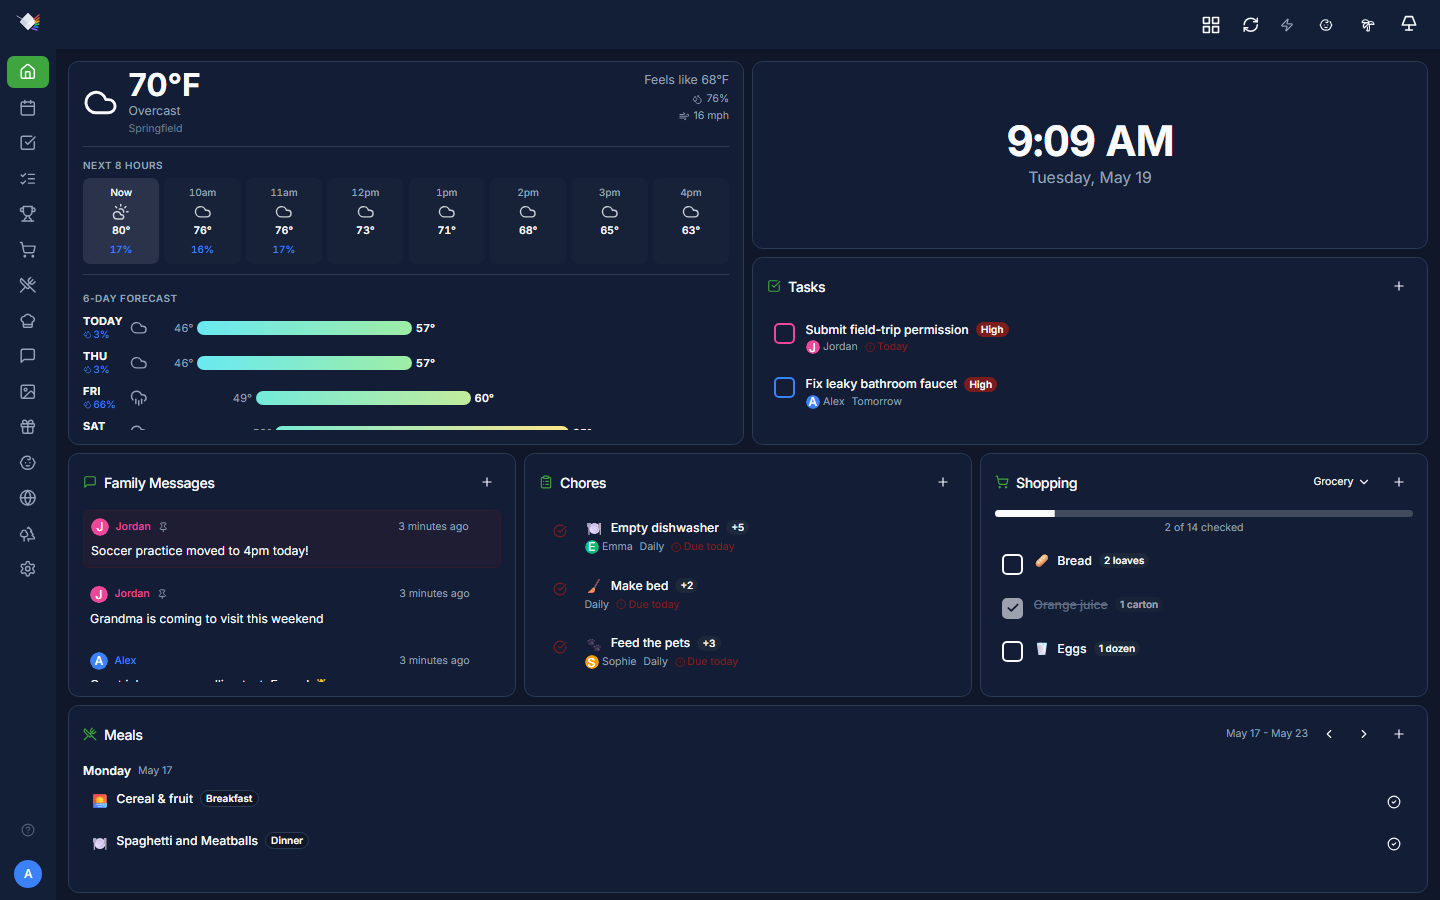
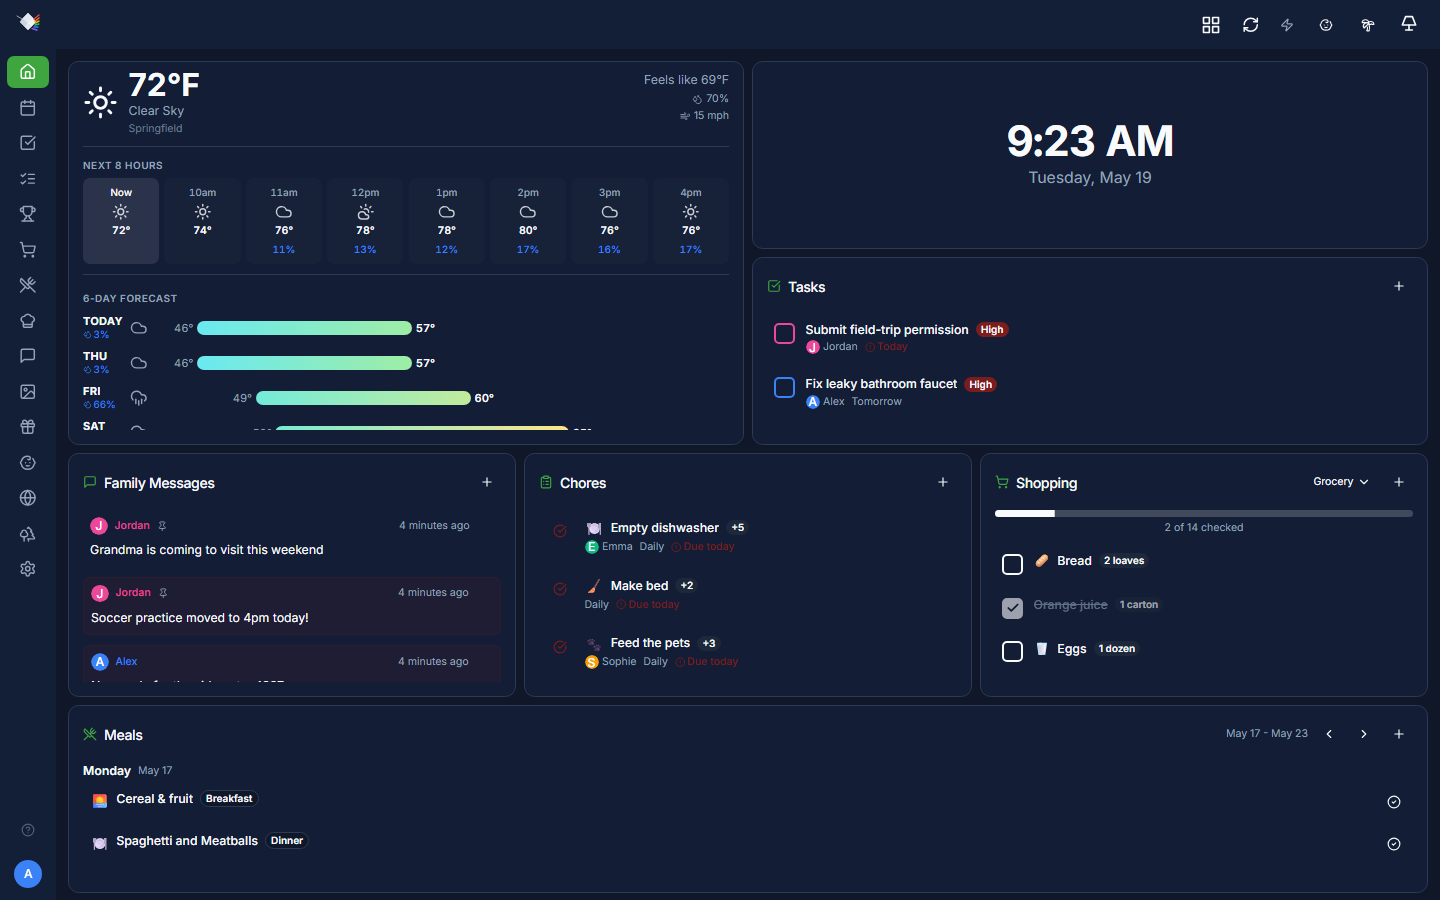
fix(weather): parse Open-Meteo sunrise/sunset/hourly as wall-clock-in-location
Open-Meteo returns "2026-05-19T05:42" (no offset) when called with
`timezone=auto`, expecting the consumer to interpret that wall-clock in
the response's IANA timezone. The previous parser ran `new Date(s)`,
which treats the string as the *runtime's* local time — UTC in our
Docker containers — then serializes through JSON as ISO Z. The browser
re-interprets that as UTC and shifts by its own offset, so sunrise
landed around midnight CDT instead of ~5:30 AM.

Fix: combine the wall-clock string with the response's `timezone` field
via Intl.DateTimeFormat → longOffset to compute the correct UTC instant.
Applied to sunrise, sunset, and `hourly.time`. DST transitions handled
implicitly since the offset is recomputed against each date.

- Add `zonedTimeToUtc(localIso, timeZone)` helper in openmeteo.ts.
- Two new regression tests: sunrise/sunset round-trip and hourly-time
  round-trip — both assert the result expressed in America/Chicago
  matches the original wall-clock string.
- Re-capture dashboard PNGs with correct sunrise/sunset data.
- Also: stage the merry-timeline.d.ts deletion that should have landed
  in the previous weather commit.

diff --git a/src/lib/integrations/__tests__/openmeteo.test.ts b/src/lib/integrations/__tests__/openmeteo.test.ts
@@ -237,6 +237,80 @@ describe('openmeteo.fetchWeatherData', () => {
     expect(result.forecast[0]?.condition).not.toBe('cloudy');
   });
 
+  it('parses sunrise/sunset as wall-clock-in-location, not wall-clock-in-runtime', async () => {
+    // Regression: Open-Meteo returns "2026-05-19T05:42" (no offset) for a
+    // location in America/Chicago. The bug was that `new Date(s)` interpreted
+    // this as the runtime's local time — UTC in our Docker containers — so the
+    // serialized ISO instant was 5 hours off, displaying sunrise around
+    // midnight in the browser. Verify the parser uses the response's timezone
+    // to land on the correct UTC instant.
+    const today = localDate(0, 'America/Chicago');
+    const response = buildResponse('America/Chicago');
+    response.daily.sunrise = [`${today}T05:42`];
+    response.daily.sunset = [`${today}T20:07`];
+
+    jest.spyOn(global, 'fetch' as never).mockResolvedValue({
+      ok: true,
+      json: async () => response,
+    } as never);
+
+    const { fetchWeatherData } = await import('../openmeteo');
+    const result = await fetchWeatherData();
+
+    // 05:42 CDT = 10:42 UTC (or 05:42 CST = 11:42 UTC in winter). Display in
+    // the location's TZ to make the assertion robust to test-runner TZ AND
+    // DST transitions — what we care about is "05:42 in Chicago".
+    const sunriseInChicago = new Intl.DateTimeFormat('en-US', {
+      timeZone: 'America/Chicago',
+      hour: '2-digit',
+      minute: '2-digit',
+      hour12: false,
+    }).format(result.sunrise);
+    expect(sunriseInChicago).toBe('05:42');
+
+    const sunsetInChicago = new Intl.DateTimeFormat('en-US', {
+      timeZone: 'America/Chicago',
+      hour: '2-digit',
+      minute: '2-digit',
+      hour12: false,
+    }).format(result.sunset!);
+    expect(sunsetInChicago).toBe('20:07');
+  });
+
+  it('parses hourly times as wall-clock-in-location', async () => {
+    // Same regression as the sunrise test, applied to the hourly forecast.
+    const today = localDate(0, 'America/Chicago');
+    const response = buildResponse('America/Chicago');
+    response.hourly.time = [`${today}T09:00`, `${today}T10:00`, `${today}T11:00`];
+    response.hourly.temperature_2m = [70, 71, 72];
+    response.hourly.precipitation_probability = [0, 0, 0];
+    response.hourly.precipitation = [0, 0, 0];
+    response.hourly.weather_code = [0, 0, 0];
+
+    jest.spyOn(global, 'fetch' as never).mockResolvedValue({
+      ok: true,
+      json: async () => response,
+    } as never);
+
+    const { fetchWeatherData } = await import('../openmeteo');
+    const result = await fetchWeatherData();
+
+    // Hourly is filtered to a 12-hour window around `now`, so at least one of
+    // the three fixture hours should survive. Whichever does, its wall-clock
+    // in America/Chicago must read back as one of "09:00" / "10:00" / "11:00".
+    expect(result.hourly && result.hourly.length).toBeGreaterThan(0);
+    if (result.hourly && result.hourly.length > 0) {
+      const formatter = new Intl.DateTimeFormat('en-US', {
+        timeZone: 'America/Chicago',
+        hour: '2-digit',
+        minute: '2-digit',
+        hour12: false,
+      });
+      const wallClocks = result.hourly.map((h) => formatter.format(h.time));
+      expect(wallClocks.every((wc) => ['09:00', '10:00', '11:00'].includes(wc))).toBe(true);
+    }
+  });
+
   it('does not require any API key (zero env-var configuration)', async () => {
     // Strip any provider key env vars to prove openmeteo doesn't read them.
     const stripped = { ...process.env };

diff --git a/src/lib/integrations/openmeteo.ts b/src/lib/integrations/openmeteo.ts
@@ -130,6 +130,41 @@ function describeWmo(code: number): string {
 }
 
 // ---------------------------------------------------------------------------
+// Wall-clock-in-timezone → UTC instant
+// ---------------------------------------------------------------------------
+
+/**
+ * Convert a "wall-clock" ISO string ("2026-05-19T05:42", no offset) interpreted
+ * in the given IANA timezone into a UTC `Date`. Open-Meteo returns its
+ * `sunrise`, `sunset`, and `hourly.time` values in this shape when called with
+ * `timezone=auto`, so we need this to land on the correct absolute instant
+ * regardless of the runtime's local timezone (which is UTC in our containers).
+ *
+ * Approach: format the localIso (treated as UTC) in the target zone to read
+ * back its longOffset like "GMT-05:00", then subtract that offset from the
+ * UTC interpretation. DST transitions are handled implicitly because the
+ * offset is recomputed against the actual date.
+ */
+function zonedTimeToUtc(localIso: string, timeZone: string): Date {
+  // Treat the wall-clock as UTC for the moment — wrong by the timezone offset.
+  const asUtc = new Date(`${localIso}Z`);
+  // Ask Intl what UTC offset the target zone has at that moment.
+  const parts = new Intl.DateTimeFormat('en-US', {
+    timeZone,
+    timeZoneName: 'longOffset',
+    hour12: false,
+  }).formatToParts(asUtc);
+  const offsetName = parts.find((p) => p.type === 'timeZoneName')?.value ?? 'GMT';
+  // "GMT-05:00" → ±HH:MM
+  const m = /([+-])(\d{2}):?(\d{2})/.exec(offsetName);
+  if (!m) return asUtc;
+  const sign = m[1] === '+' ? 1 : -1;
+  const offsetMinutes = sign * (parseInt(m[2]!, 10) * 60 + parseInt(m[3]!, 10));
+  // Subtract the offset to get the real UTC instant for that wall-clock time.
+  return new Date(asUtc.getTime() - offsetMinutes * 60_000);
+}
+
+// ---------------------------------------------------------------------------
 // Main fetch function
 // ---------------------------------------------------------------------------
 
@@ -201,11 +236,15 @@ export async function fetchWeatherData(location?: LocationParam): Promise<Weathe
   };
 
   // ── Sunrise / sunset from today's daily entry ─────────────────────────────
-  // Open-Meteo returns ISO strings without TZ suffix when timezone=auto;
-  // appending the offset is unnecessary because `new Date(<ISO without Z>)`
-  // is interpreted as local time, which matches the requested location.
-  const sunrise = daily.sunrise[0] ? new Date(daily.sunrise[0]) : undefined;
-  const sunset  = daily.sunset[0]  ? new Date(daily.sunset[0])  : undefined;
+  // Open-Meteo returns ISO strings without TZ offset when timezone=auto
+  // (e.g. "2026-05-19T05:42"). Plain `new Date(s)` interprets these in the
+  // *runtime's* local time — which is UTC in our Docker container — then
+  // serializes to ISO Z. The browser then parses that back as UTC and shifts
+  // by the user's offset, producing sunrise ~midnight. Combining the wall-
+  // clock string with the response's IANA timezone gives the correct UTC
+  // instant in one step.
+  const sunrise = daily.sunrise[0] ? zonedTimeToUtc(daily.sunrise[0], timezone) : undefined;
+  const sunset  = daily.sunset[0]  ? zonedTimeToUtc(daily.sunset[0],  timezone) : undefined;
 
   // ── 7-day forecast ────────────────────────────────────────────────────────
   // Today's local date at the forecast location — used to drop stale past-day
@@ -242,7 +281,9 @@ export async function fetchWeatherData(location?: LocationParam): Promise<Weathe
   const cutoff = nowMs + 12 * 3_600_000;
   const hourlyData: HourlyForecast[] = hourly.time
     .map((t, i) => ({
-      time: new Date(t),
+      // Same wall-clock-in-location issue as sunrise above — pass through
+      // zonedTimeToUtc so the absolute instant is right for the user's browser.
+      time: zonedTimeToUtc(t, timezone),
       condition: mapWmoCode(hourly.weather_code[i] ?? 0),
       temp: Math.round(hourly.temperature_2m[i] ?? 0),
       precipProbability: Math.round(hourly.precipitation_probability?.[i] ?? 0),